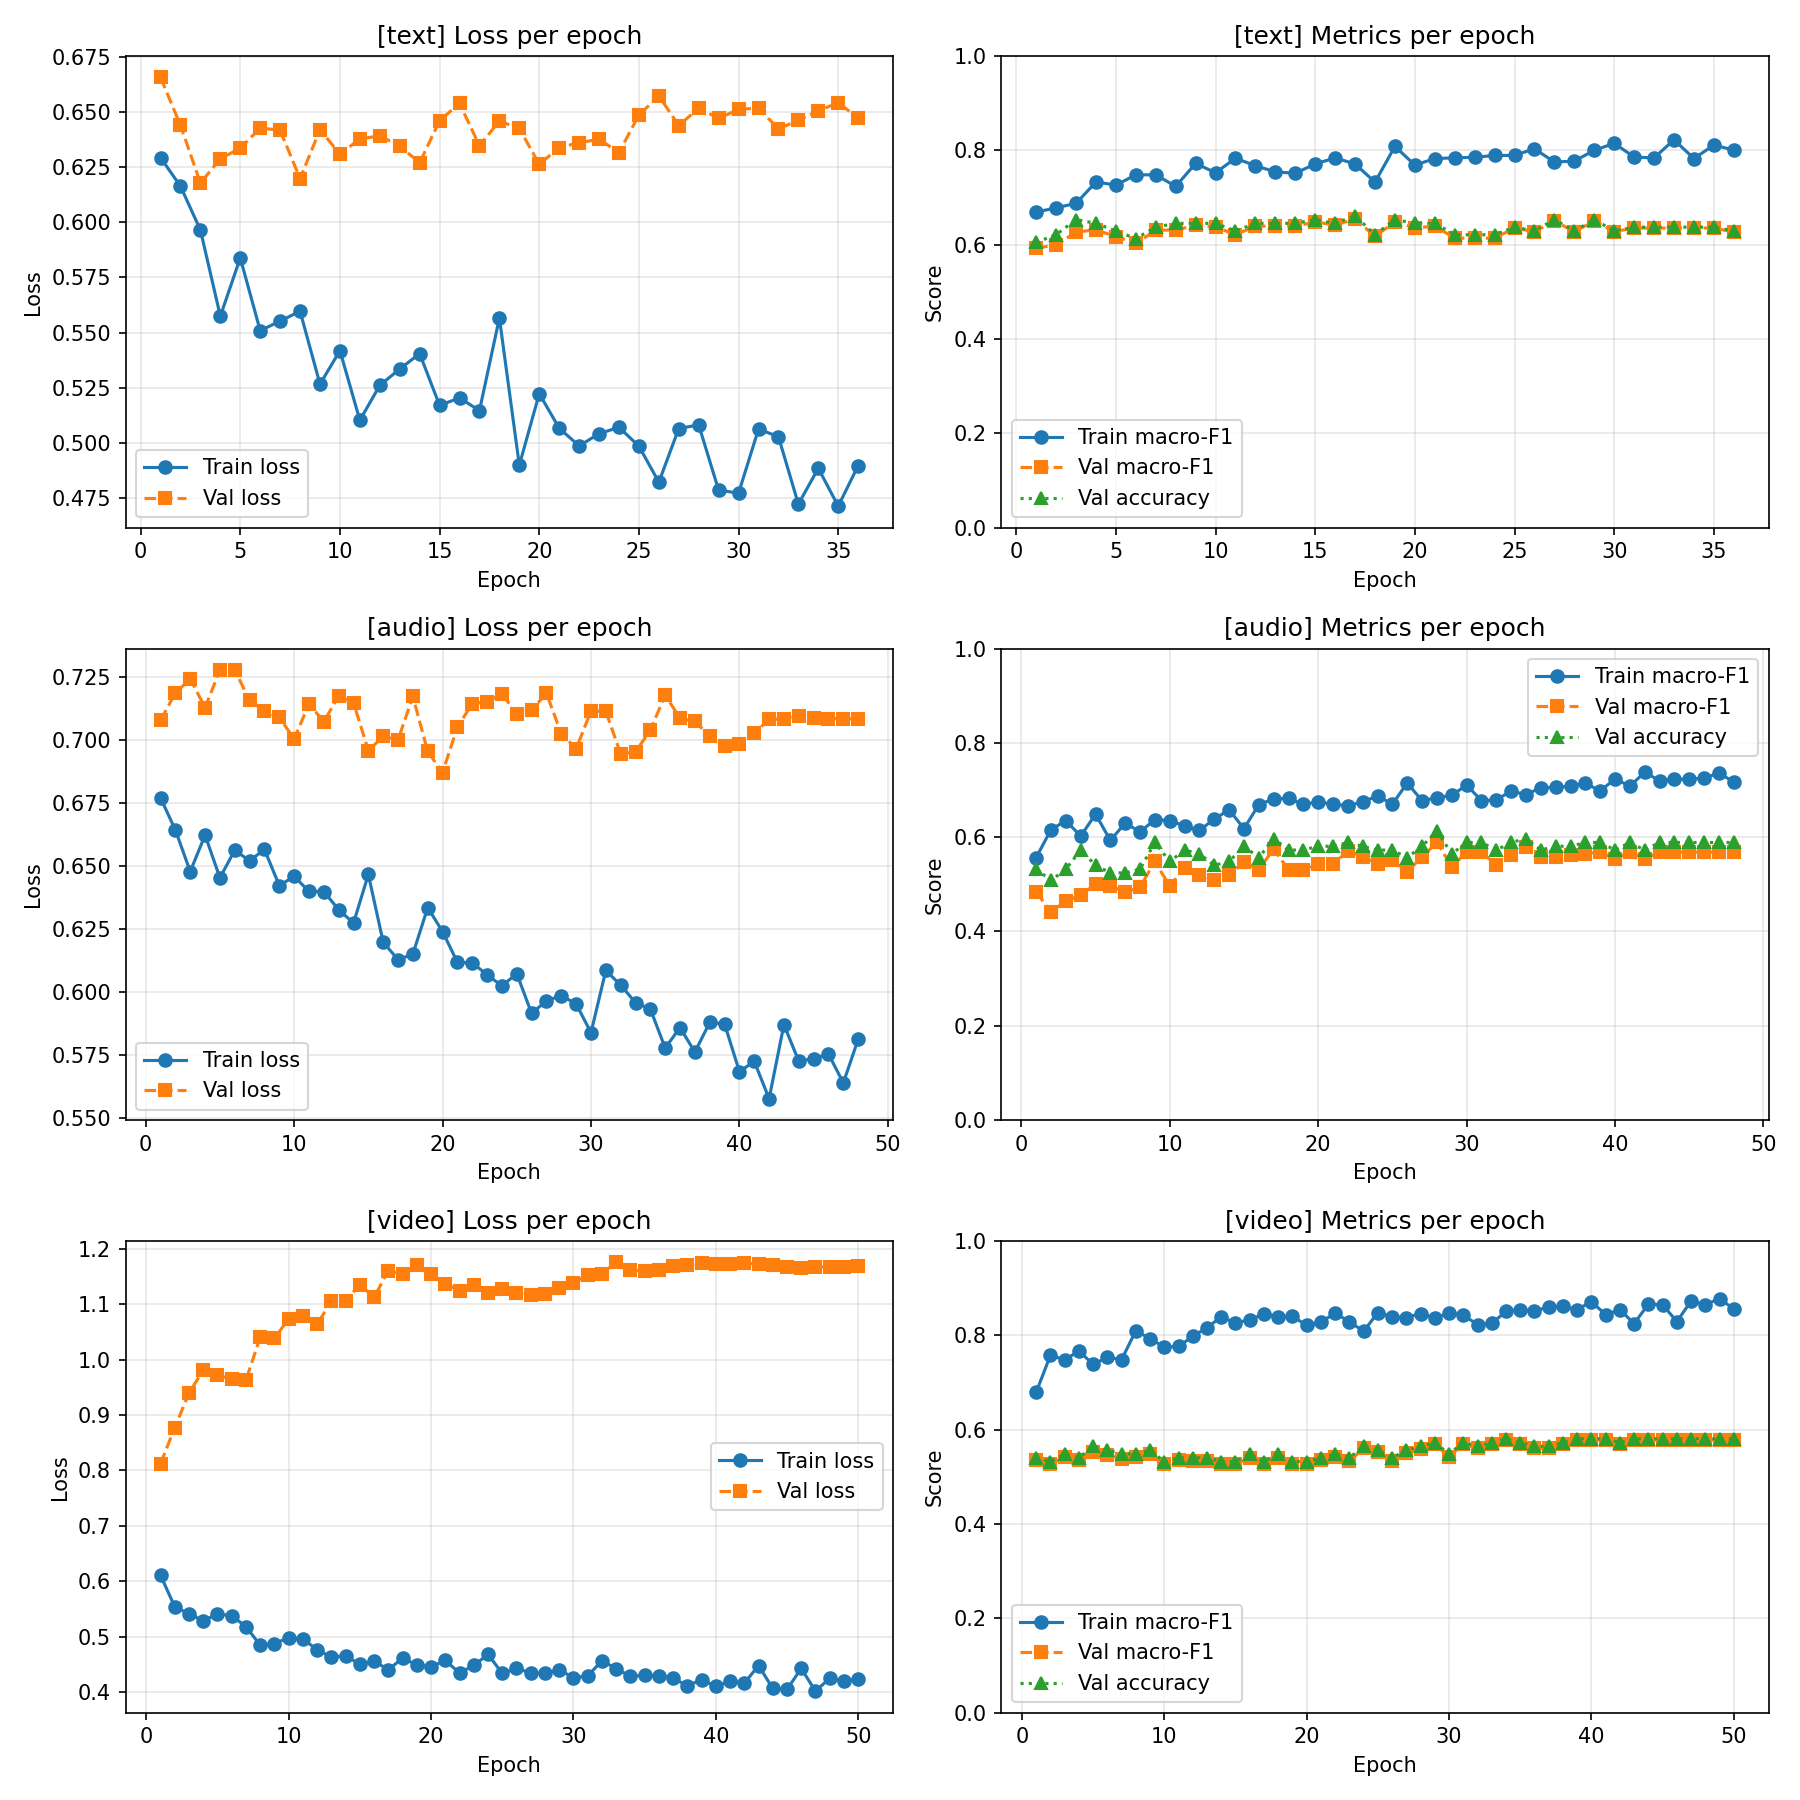
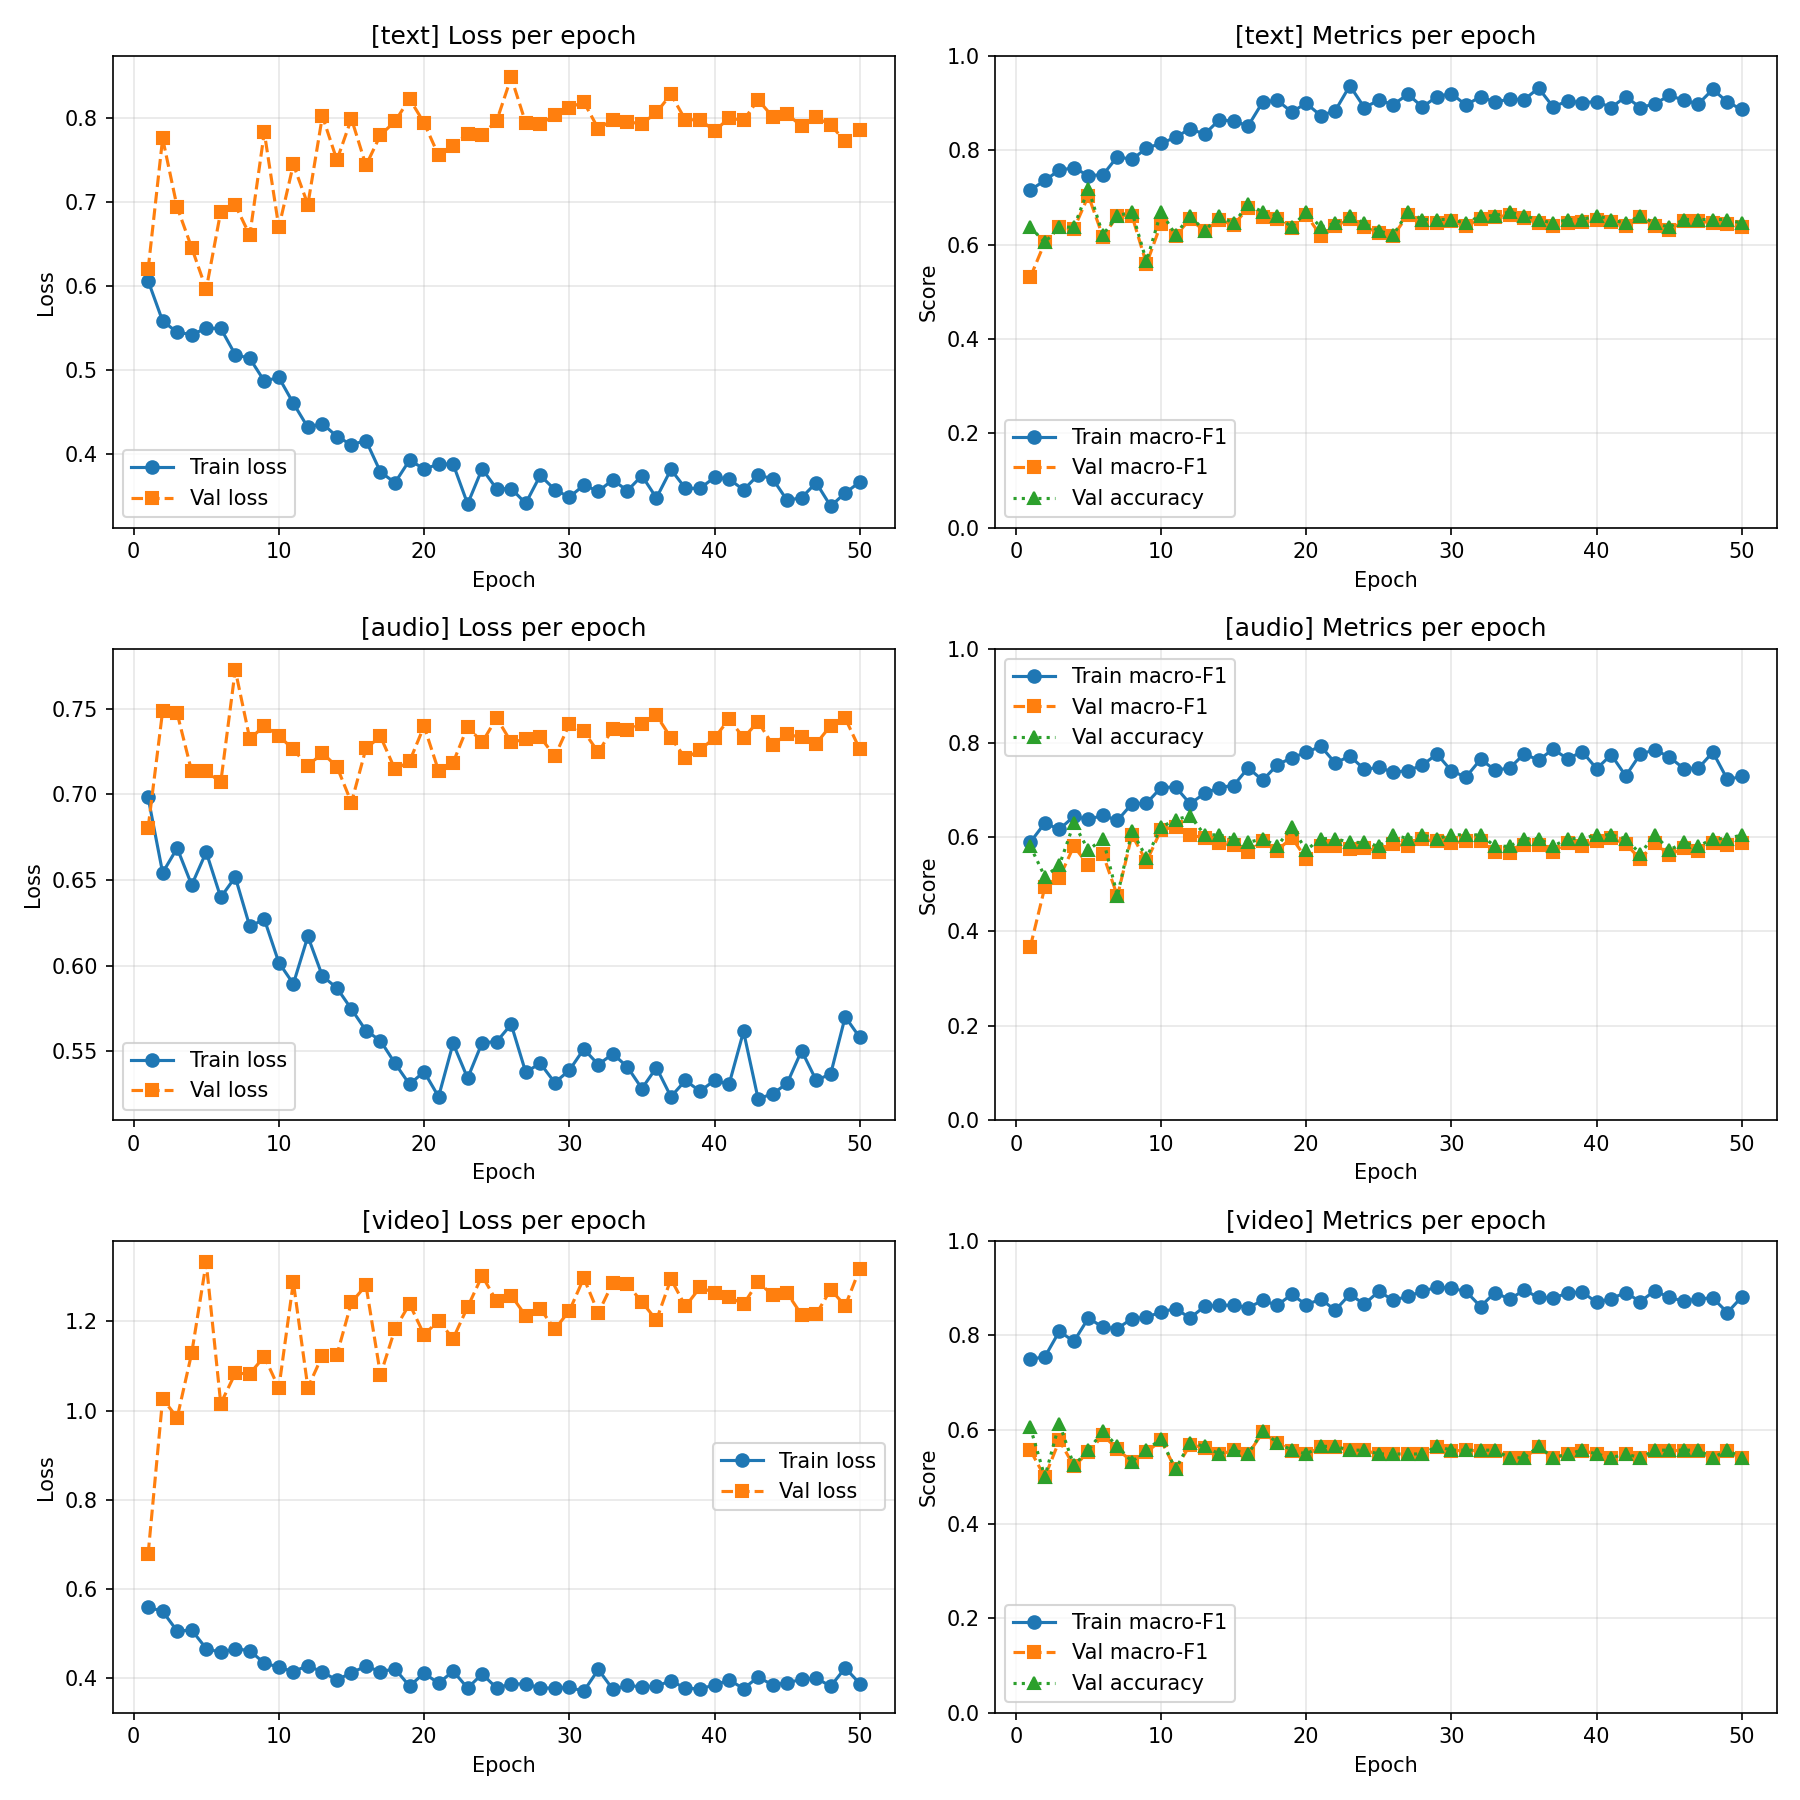
new best version

diff --git a/multimodal/src/late_fusion_training.py b/multimodal/src/late_fusion_training.py
@@ -129,11 +129,15 @@ def plot_history(histories: Dict[str, dict], save_path: Path) -> None:
 
 class ModalityMLP(nn.Module):
     """
-    Simple Linear → GELU → Dropout (× len(hidden_dims)) → Linear classifier.
+    Configurable MLP classifier for a single modality embedding.
 
-    Operates on a single z-scored modality embedding vector.  Kept tiny so
-    that with ~1500 training samples we don't blow up the parameter budget
-    per modality.
+    Architecture (per hidden layer)::
+
+        [GaussianNoise] → Linear → [BatchNorm] → Activation → Dropout
+
+    Operates on a normalised modality embedding vector.  Kept tiny so that
+    with ~1500 training samples we don't blow up the parameter budget per
+    modality.
 
     Parameters
     ----------
@@ -142,6 +146,15 @@ class ModalityMLP(nn.Module):
         Useful for high-dim modalities (e.g. Swin's 768-d pooled output)
         where many feature dimensions are noisy and overfitting kicks in
         within 2-3 epochs.  Set to 0 to disable.
+    gaussian_noise : float
+        Std-dev of additive Gaussian noise injected at the input during
+        training (like Run.ipynb's ``GaussianNoise(0.025)``).  Set to 0 to
+        disable.  Only active in ``model.train()`` mode.
+    use_batchnorm : bool
+        If True, insert ``BatchNorm1d`` after each hidden Linear (before
+        activation), mirroring the Run.ipynb Keras architecture.
+    activation : str
+        ``"gelu"`` (default) or ``"relu"``.
     """
 
     def __init__(
@@ -151,20 +164,48 @@ class ModalityMLP(nn.Module):
         num_classes: int = 2,
         dropout: float = 0.3,
         input_dropout: float = 0.0,
+        gaussian_noise: float = 0.0,
+        use_batchnorm: bool = False,
+        activation: str = "gelu",
     ):
         super().__init__()
+        act_cls = nn.ReLU if activation.lower() == "relu" else nn.GELU
+
         layers: List[nn.Module] = []
+        # Optional Gaussian noise at the input (only active during training).
+        if gaussian_noise > 0:
+            layers.append(_GaussianNoise(gaussian_noise))
         if input_dropout > 0:
             layers.append(nn.Dropout(p=input_dropout))
         in_dim = input_dim
         for h in hidden_dims:
-            layers += [nn.Linear(in_dim, h), nn.GELU(), nn.Dropout(p=dropout)]
+            layers.append(nn.Linear(in_dim, h))
+            if use_batchnorm:
+                layers.append(nn.BatchNorm1d(h))
+            layers.append(act_cls())
+            layers.append(nn.Dropout(p=dropout))
             in_dim = h
         layers.append(nn.Linear(in_dim, num_classes))
         self.mlp = nn.Sequential(*layers)
 
     def forward(self, x: torch.Tensor) -> torch.Tensor:
         return self.mlp(x)
+
+
+class _GaussianNoise(nn.Module):
+    """Additive Gaussian noise — active only during ``model.train()``."""
+
+    def __init__(self, std: float = 0.025):
+        super().__init__()
+        self.std = std
+
+    def forward(self, x: torch.Tensor) -> torch.Tensor:
+        if self.training and self.std > 0:
+            return x + torch.randn_like(x) * self.std
+        return x
+
+    def extra_repr(self) -> str:
+        return f"std={self.std}"
 
 
 # ── Per-modality hyperparameter resolution ────────────────────────────────────
@@ -189,14 +230,20 @@ def _resolve_modality_cfg(CFG: dict, modality: str) -> dict:
 
     # Stage 1: global defaults from existing config.
     resolved = {
-        "hidden_dims":    fcfg.get("modality_hidden_dims", fcfg.get("hidden_dims", [128])),
-        "dropout":        float(fcfg.get("modality_dropout", fcfg.get("dropout", 0.3))),
-        "input_dropout":  float(fcfg.get("modality_input_dropout", 0.0)),
+        "hidden_dims":     fcfg.get("modality_hidden_dims", fcfg.get("hidden_dims", [128])),
+        "dropout":         float(fcfg.get("modality_dropout", fcfg.get("dropout", 0.3))),
+        "input_dropout":   float(fcfg.get("modality_input_dropout", 0.0)),
         "label_smoothing": float(fcfg.get("label_smoothing", 0.1)),
-        "learning_rate":  float(tcfg["learning_rate"]),
-        "weight_decay":   float(tcfg["weight_decay"]),
-        "epochs":         int(tcfg["epochs"]),
-        "patience":       int(tcfg["early_stopping_patience"]),
+        "learning_rate":   float(tcfg["learning_rate"]),
+        "weight_decay":    float(tcfg["weight_decay"]),
+        "epochs":          int(tcfg["epochs"]),
+        "patience":        int(tcfg["early_stopping_patience"]),
+        # New keys (backward-compatible defaults match the old behaviour).
+        "normalization":   fcfg.get("normalization", "standard"),   # "standard" | "l2"
+        "gaussian_noise":  float(fcfg.get("gaussian_noise", 0.0)),
+        "use_batchnorm":   bool(fcfg.get("use_batchnorm", False)),
+        "activation":      fcfg.get("activation", "gelu"),          # "gelu" | "relu"
+        "scheduler":       tcfg.get("scheduler", "cosine"),         # "cosine" | "plateau"
     }
 
     # Stage 2: per-modality block under ``[fusion.modality.<mod>]``.
@@ -209,15 +256,18 @@ def _resolve_modality_cfg(CFG: dict, modality: str) -> dict:
         for key in (
             "hidden_dims", "dropout", "input_dropout", "label_smoothing",
             "learning_rate", "weight_decay", "epochs", "patience",
+            "normalization", "gaussian_noise", "use_batchnorm", "activation",
+            "scheduler",
         ):
             if key in mod_block:
                 resolved[key] = mod_block[key]
         # Normalise numeric types so TOML "1e-2" strings don't sneak through.
         for key in ("dropout", "input_dropout", "label_smoothing",
-                    "learning_rate", "weight_decay"):
+                    "learning_rate", "weight_decay", "gaussian_noise"):
             resolved[key] = float(resolved[key])
         for key in ("epochs", "patience"):
             resolved[key] = int(resolved[key])
+        resolved["use_batchnorm"] = bool(resolved["use_batchnorm"])
 
     return resolved
 
@@ -225,20 +275,45 @@ def _resolve_modality_cfg(CFG: dict, modality: str) -> dict:
 # ── Per-modality dataset wrapper ──────────────────────────────────────────────
 
 
+class _L2Normalizer:
+    """
+    Drop-in replacement for ``StandardScaler`` that applies per-sample L2
+    normalization: ``x / (||x||_2 + eps)``.
+
+    Matches the ``linalg_array`` lambda used in Run.ipynb.  ``fit()`` is a
+    no-op (L2 norm is stateless), but we keep the API so the rest of the
+    pipeline can treat it identically to ``StandardScaler``.
+    """
+
+    def fit(self, X: np.ndarray) -> "_L2Normalizer":
+        return self
+
+    def transform(self, X: np.ndarray) -> np.ndarray:
+        norms = np.linalg.norm(X, axis=1, keepdims=True) + 1e-12
+        return (X / norms).astype(np.float32)
+
+    def fit_transform(self, X: np.ndarray) -> np.ndarray:
+        self.fit(X)
+        return self.transform(X)
+
+
 class _SingleModalityViewDataset(Dataset):
     """
     Wraps a single modality slice of a ``MultimodalCachedFusionDataset``.
 
-    Stores the pre-scaled tensor on CPU as a numpy array and randomly samples
-    a view at every ``__getitem__`` call when ``random_view=True``;
+    Stores the pre-normalised tensor on CPU as a numpy array and randomly
+    samples a view at every ``__getitem__`` call when ``random_view=True``;
     deterministic view 0 otherwise.
+
+    The ``scaler`` can be either a ``StandardScaler`` (z-score) or an
+    ``_L2Normalizer`` (per-sample L2 norm) — both expose ``.transform()``.
     """
 
     def __init__(
         self,
         emb_tensor: torch.Tensor,         # (N, K, dim)
         labels: List[int],
-        scaler: StandardScaler,
+        scaler,                            # StandardScaler | _L2Normalizer
         random_view: bool,
     ):
         super().__init__()
@@ -275,18 +350,19 @@ def train_modality_head(
     CFG: dict,
     weights_dir: Path,
     device: torch.device,
-) -> Tuple[nn.Module, StandardScaler, dict, np.ndarray, np.ndarray, np.ndarray]:
+) -> Tuple[nn.Module, object, dict, np.ndarray, np.ndarray, np.ndarray]:
     """
-    Fit a StandardScaler on the train cache for ``modality``, train an MLP
-    head with early stopping on val macro-F1, and finally return per-sample
-    softmax probabilities for train/val/test (always using view 0).
+    Fit a normalizer (StandardScaler or L2) on the train cache for
+    ``modality``, train an MLP head with early stopping on val macro-F1,
+    and finally return per-sample softmax probabilities for train/val/test
+    (always using view 0).
 
     The probabilities are what the late-fusion combiner consumes.
 
     Returns
     -------
     best_model : nn.Module        — checkpoint restored to best val F1
-    scaler     : StandardScaler   — fitted on all train (N*K) views
+    scaler     : object           — fitted normalizer (StandardScaler or _L2Normalizer)
     history    : dict             — per-epoch curves for plotting
     p_train    : (N_train, 2)     — softmax probs on train view 0
     p_val      : (N_val, 2)
@@ -307,14 +383,24 @@ def train_modality_head(
     WD = float(mcfg["weight_decay"])
     EPOCHS = int(mcfg["epochs"])
     PATIENCE = int(mcfg["patience"])
+    NORM_TYPE = mcfg.get("normalization", "standard")
+    GAUSS_NOISE = float(mcfg.get("gaussian_noise", 0.0))
+    USE_BN = bool(mcfg.get("use_batchnorm", False))
+    ACTIVATION = mcfg.get("activation", "gelu")
+    SCHED_TYPE = mcfg.get("scheduler", "cosine")
 
     emb_train = getattr(train_ds, modality)            # (N, K, dim)
     emb_val = getattr(val_ds, modality)
     emb_test = getattr(test_ds, modality)
     input_dim = emb_train.shape[-1]
 
-    # Fit StandardScaler on ALL N*K train views (matches the early-fusion baseline).
-    scaler = StandardScaler()
+    # Choose normalizer: StandardScaler (z-score) or L2 (per-sample unit norm).
+    if NORM_TYPE == "l2":
+        scaler = _L2Normalizer()
+        print(f"[{modality}] Using L2 normalization (per-sample unit norm)")
+    else:
+        scaler = StandardScaler()
+        print(f"[{modality}] Using StandardScaler (z-score normalization)")
     scaler.fit(emb_train.reshape(-1, input_dim).numpy().astype(np.float32))
 
     train_td = _SingleModalityViewDataset(
@@ -347,13 +433,19 @@ def train_modality_head(
     model = ModalityMLP(
         input_dim=input_dim, hidden_dims=HIDDEN,
         num_classes=2, dropout=DROPOUT, input_dropout=INPUT_DROPOUT,
+        gaussian_noise=GAUSS_NOISE, use_batchnorm=USE_BN, activation=ACTIVATION,
     ).to(device)
 
     trainable = sum(p.numel() for p in model.parameters() if p.requires_grad)
     print(
         f"\n[{modality}] input_dim={input_dim}  hidden_dims={HIDDEN}  "
         f"dropout={DROPOUT}  input_dropout={INPUT_DROPOUT}  "
-        f"lr={LR:.2e}  weight_decay={WD}  epochs={EPOCHS}  patience={PATIENCE}"
+        f"gaussian_noise={GAUSS_NOISE}  batchnorm={USE_BN}  activation={ACTIVATION}  "
+        f"normalization={NORM_TYPE}"
+    )
+    print(
+        f"[{modality}] lr={LR:.2e}  weight_decay={WD}  epochs={EPOCHS}  "
+        f"patience={PATIENCE}  scheduler={SCHED_TYPE}"
     )
     print(f"[{modality}] Architecture:\n{model}")
     print(f"[{modality}] Trainable params: {trainable:,}")
@@ -362,9 +454,16 @@ def train_modality_head(
     criterion = nn.CrossEntropyLoss(label_smoothing=LABEL_SMOOTH)
     criterion_eval = nn.CrossEntropyLoss()
     optimizer = torch.optim.AdamW(model.parameters(), lr=LR, weight_decay=WD)
-    scheduler = torch.optim.lr_scheduler.CosineAnnealingLR(
-        optimizer, T_max=EPOCHS, eta_min=LR * 1e-2
-    )
+
+    # Scheduler: cosine (default) or ReduceLROnPlateau (like Run.ipynb).
+    if SCHED_TYPE == "plateau":
+        scheduler = torch.optim.lr_scheduler.ReduceLROnPlateau(
+            optimizer, mode="min", factor=0.5, patience=3, min_lr=1e-6,
+        )
+    else:
+        scheduler = torch.optim.lr_scheduler.CosineAnnealingLR(
+            optimizer, T_max=EPOCHS, eta_min=LR * 1e-2
+        )
 
     best_f1 = -1.0
     prev_f1 = -1.0
@@ -404,7 +503,13 @@ def train_modality_head(
                 va_loss += criterion_eval(logits, y).item() * len(y)
                 va_preds.extend(logits.argmax(1).cpu().tolist())
                 va_labels_ep.extend(y.cpu().tolist())
-        scheduler.step()
+
+        # Step the scheduler — ReduceLROnPlateau needs the val loss metric.
+        avg_va_loss = va_loss / max(len(va_labels_ep), 1)
+        if SCHED_TYPE == "plateau":
+            scheduler.step(avg_va_loss)
+        else:
+            scheduler.step()
 
         tr_f1 = f1_score(tr_labels_ep, tr_preds, average="macro", zero_division=0)
         va_f1 = f1_score(va_labels_ep, va_preds, average="macro", zero_division=0)
@@ -436,6 +541,11 @@ def train_modality_head(
                     "dropout": DROPOUT,
                     "input_dropout": INPUT_DROPOUT,
                     "modality": modality,
+                    # New keys for architecture reconstruction at inference.
+                    "gaussian_noise": GAUSS_NOISE,
+                    "use_batchnorm": USE_BN,
+                    "activation": ACTIVATION,
+                    "normalization": NORM_TYPE,
                 },
                 ckpt_path,
             )

diff --git a/demo/app.py b/demo/app.py
@@ -280,8 +280,23 @@ def extract_video_embedding(
 
 # ── Step 5: Late-fusion classification ──────────────────────────────────────
 
+class _GaussianNoiseInfer(torch.nn.Module):
+    """No-op at eval time — matches training's _GaussianNoise."""
+
+    def __init__(self, std: float = 0.025):
+        super().__init__()
+        self.std = std
+
+    def forward(self, x: torch.Tensor) -> torch.Tensor:
+        return x  # always eval mode in demo
+
+
 def load_modality_mlp(ckpt_path: Path, device: torch.device):
-    """Load a trained ModalityMLP from a late-fusion checkpoint."""
+    """Load a trained ModalityMLP from a late-fusion checkpoint.
+
+    Handles both old checkpoints (GELU-only, no BN/noise) and new ones
+    (configurable activation, GaussianNoise, BatchNorm).
+    """
     import torch.nn as nn
 
     ckpt = torch.load(ckpt_path, map_location=device, weights_only=False)
@@ -289,14 +304,25 @@ def load_modality_mlp(ckpt_path: Path, device: torch.device):
     hidden_dims = ckpt["hidden_dims"]
     dropout = ckpt.get("dropout", 0.3)
     input_dropout = ckpt.get("input_dropout", 0.0)
+    gaussian_noise = ckpt.get("gaussian_noise", 0.0)
+    use_batchnorm = ckpt.get("use_batchnorm", False)
+    activation = ckpt.get("activation", "gelu")
 
-    # Rebuild ModalityMLP architecture.
+    act_cls = nn.ReLU if activation == "relu" else nn.GELU
+
+    # Rebuild ModalityMLP architecture (must match training exactly).
     layers: list[nn.Module] = []
+    if gaussian_noise > 0:
+        layers.append(_GaussianNoiseInfer(gaussian_noise))
     if input_dropout > 0:
         layers.append(nn.Dropout(p=input_dropout))
     in_dim = input_dim
     for h in hidden_dims:
-        layers += [nn.Linear(in_dim, h), nn.GELU(), nn.Dropout(p=dropout)]
+        layers.append(nn.Linear(in_dim, h))
+        if use_batchnorm:
+            layers.append(nn.BatchNorm1d(h))
+        layers.append(act_cls())
+        layers.append(nn.Dropout(p=dropout))
         in_dim = h
     layers.append(nn.Linear(in_dim, 2))
     model = nn.Sequential(*layers)